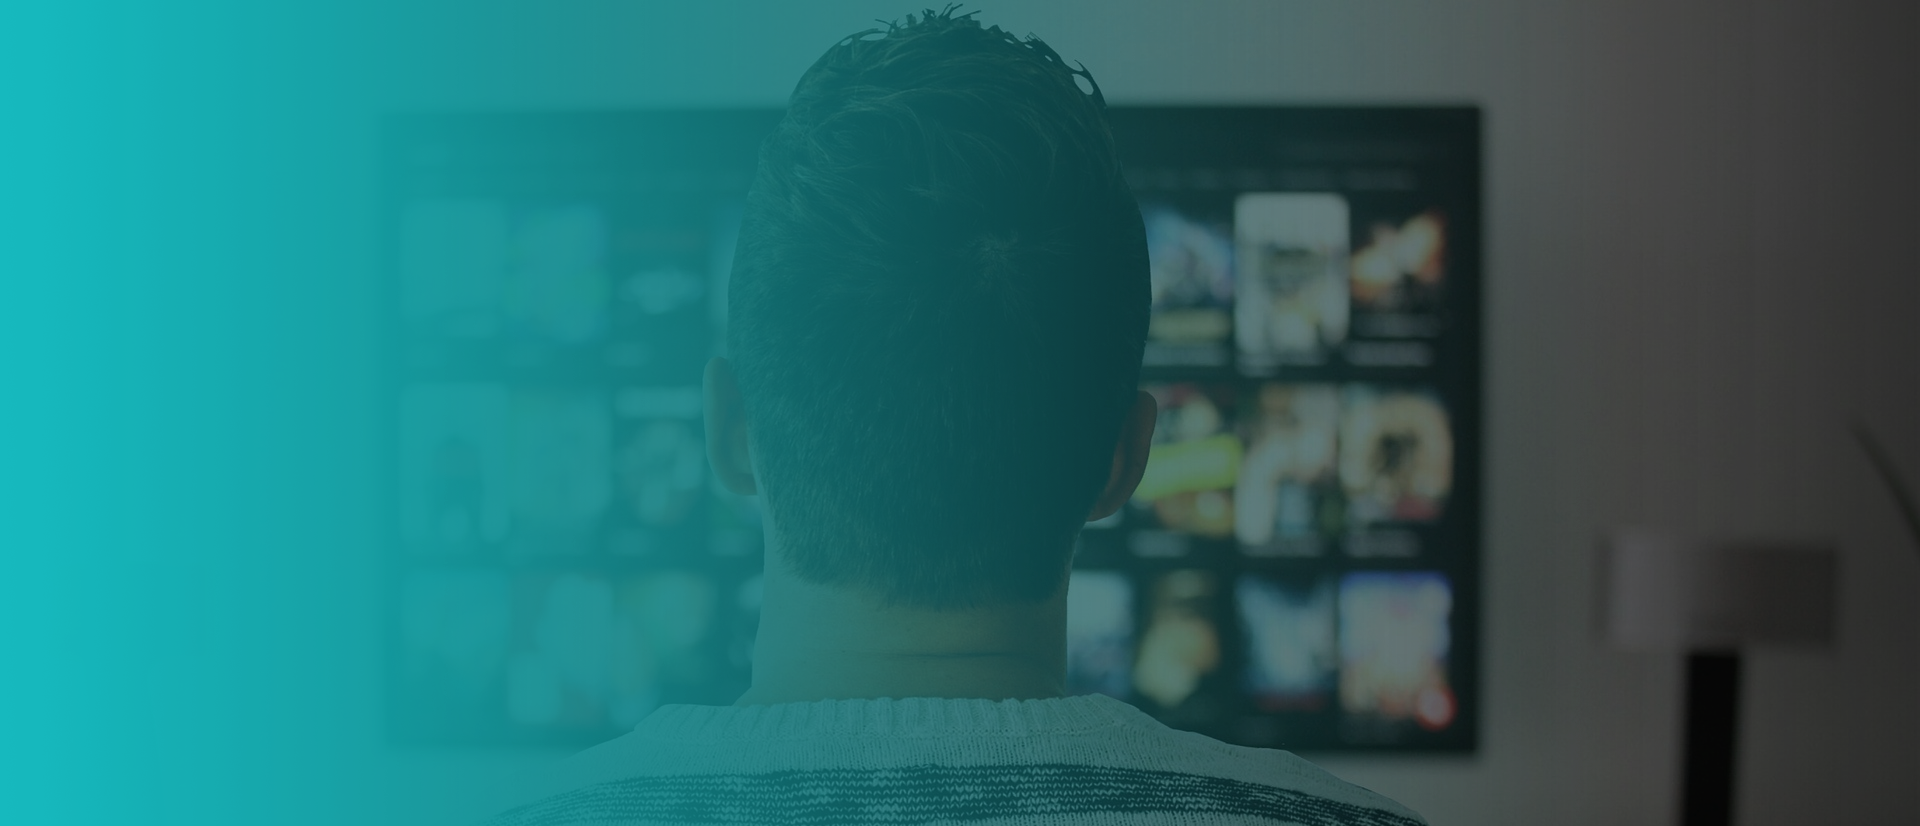
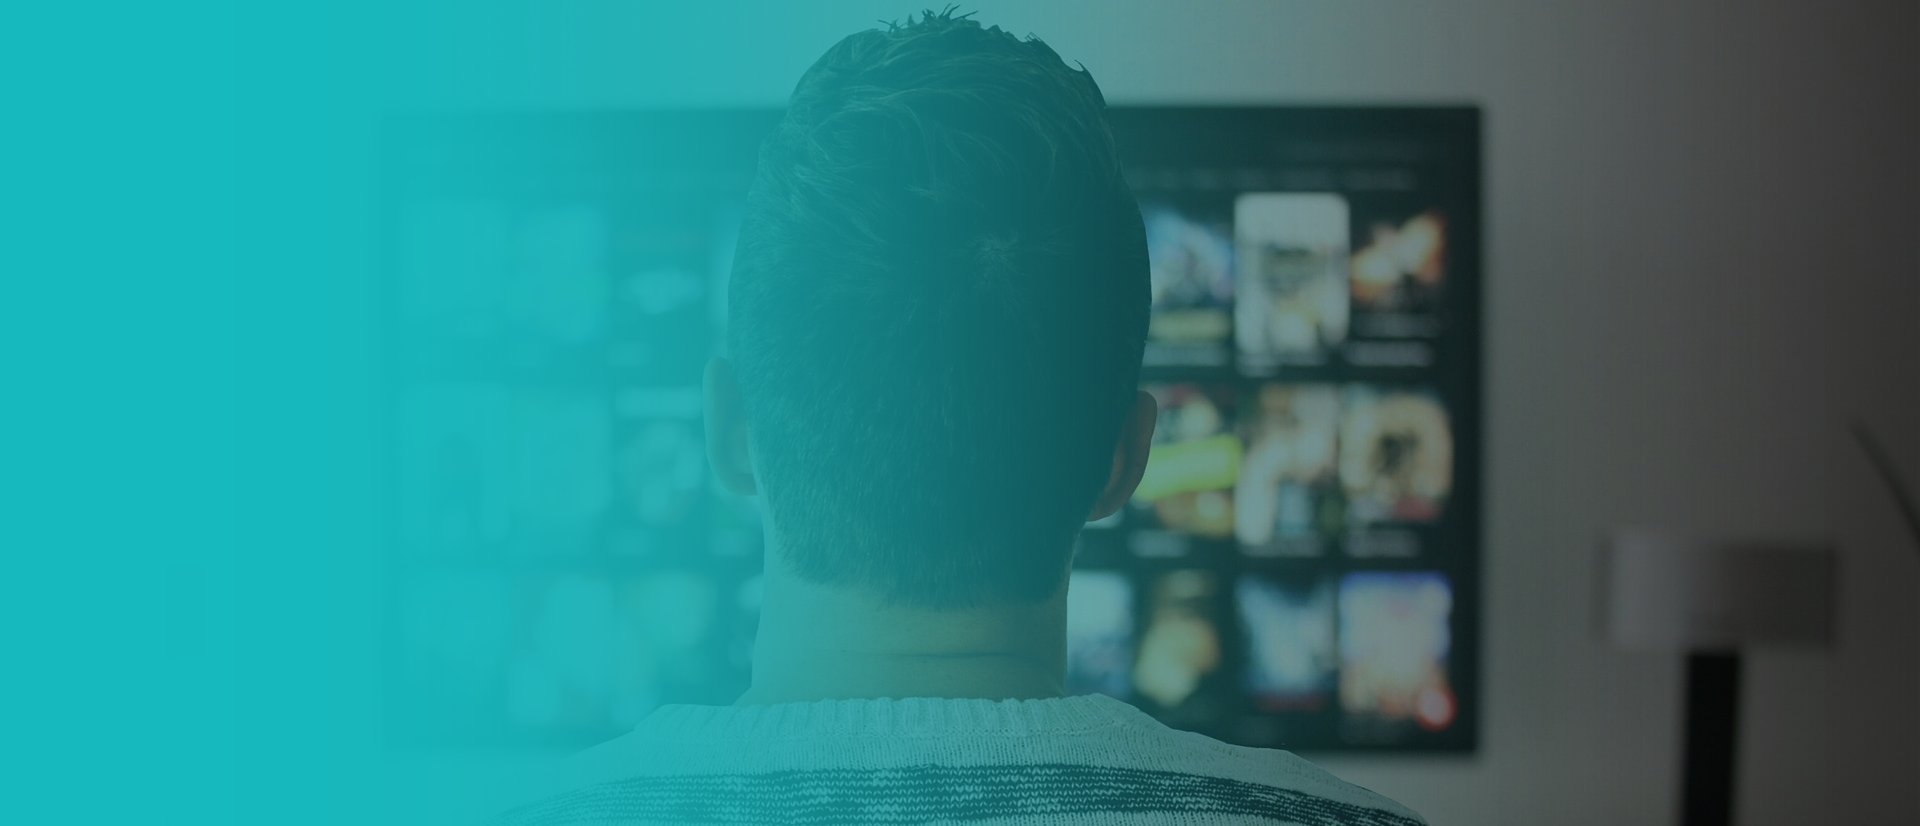
test herkou load time 1

diff --git a/app/assets/stylesheets/splash_page.css b/app/assets/stylesheets/splash_page.css
@@ -21,7 +21,7 @@
 } */
 
  .splash-container {  /* hero */
-    background-image: url(man-tv.png);
+    background-image: url(https://aqua-app-dev.s3-us-west-1.amazonaws.com/man-tv.png);
     background-position: center;
     background-size: cover;
     background-repeat: no-repeat;

diff --git a/app/assets/stylesheets/api/movies_index_items.css b/app/assets/stylesheets/api/movies_index_items.css
@@ -138,6 +138,7 @@ h1 {
     font-size: 2vw;
     object-fit: contain;
     margin: 0%;
+    margin-left: 3%;
     transition: .5s;
 }
 
